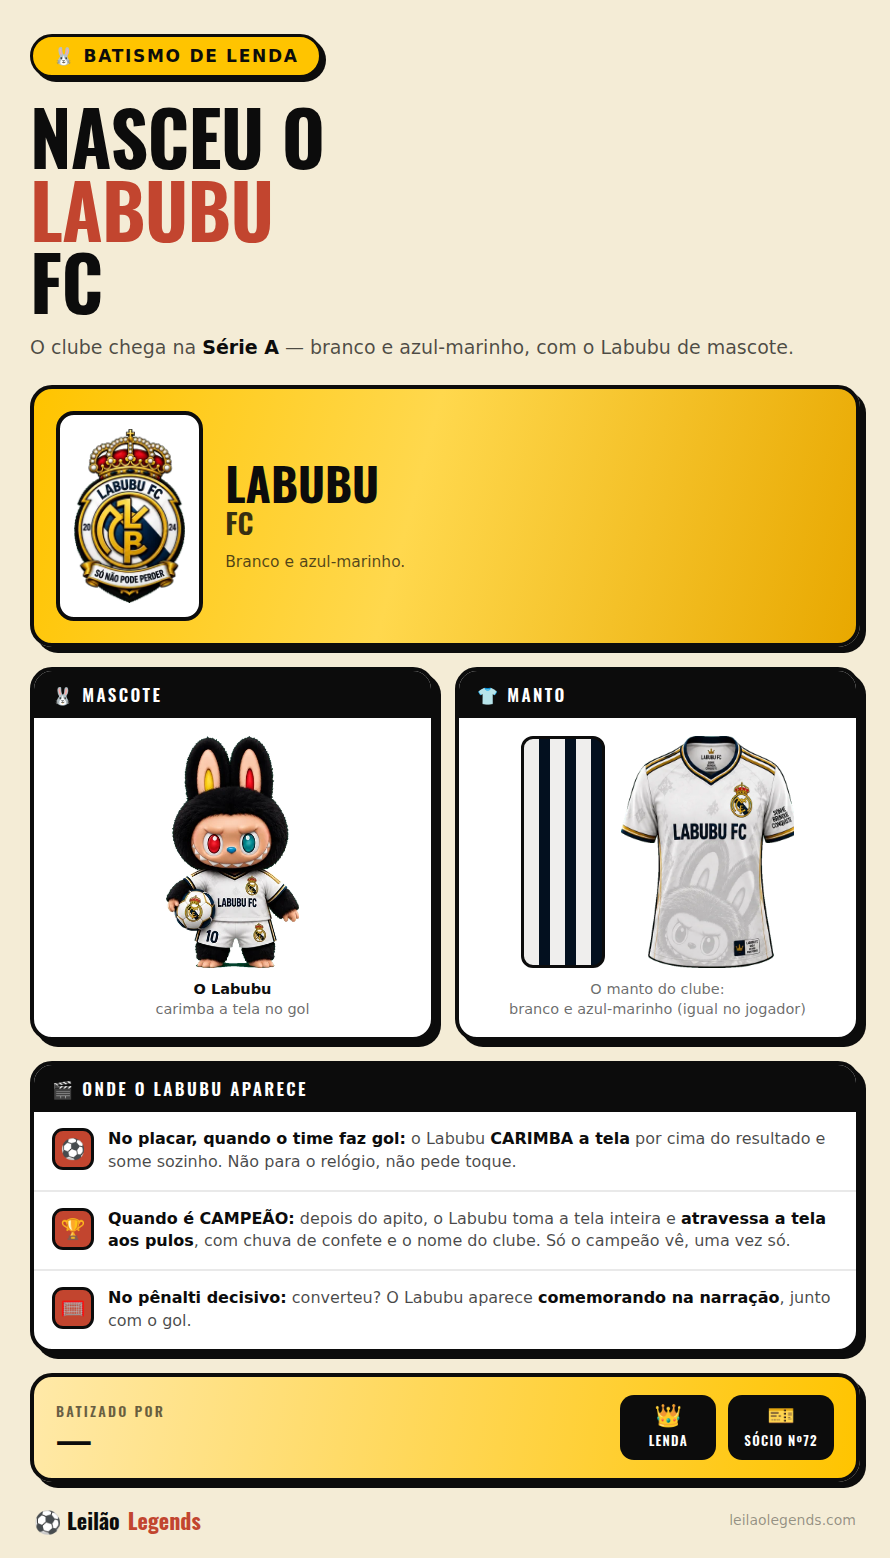
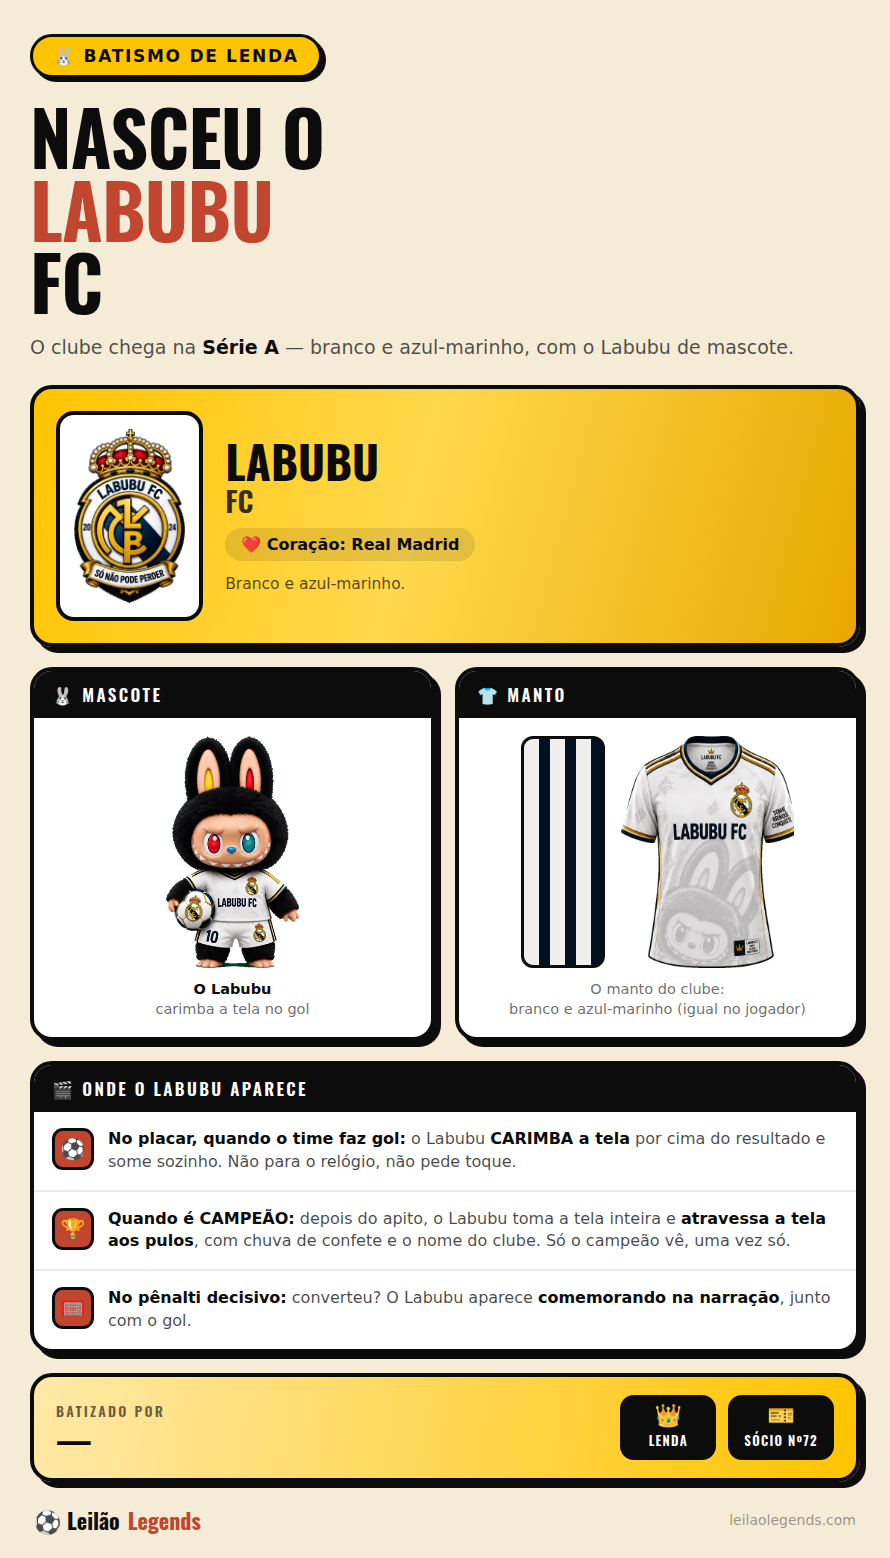
Labubu FC: time de coração Real Madrid (post, data.ts e esc_socios)
Claude-Session: https://claude.ai/code/session_018Ap1zPCMVL9XeZJN3u93ZA

Changed region(s): [[0.2427, 0.2773, 0.5461, 0.4005]]

diff --git a/src/escalacao/data.ts b/src/escalacao/data.ts
@@ -3825,7 +3825,7 @@ export const DIVISION_TEAMS: Record<'A' | 'B' | 'C' | 'D', CareerTeam[]> = {
   // o batismo de R$69,90 compra. (era a "Série D" até 30/08)
   A: [
     { name: 'Zé Ruela', team: 'Neymarzetti' }, // ⚽ clube BATIZADO (time do Diego, dono do jogo — ex-Paixandu)
-    { name: 'Labubu', team: 'Labubu FC' }, // 🐰⚪ clube BATIZADO por apoiador (caelborba — Labubu FC; escudo coroado com o monograma e o pelo preto atrás, mascote O Labubu de uniforme branco nº 10; branco #EFEEED + marinho #03101F MEDIDOS na camisa; ouro + sócio nº72, SEM nº de fundador pela regra de 14/10). Assento que era do Só Deus Sabe FC, que DESCEU pra Série C por decisão do Diego pra abrir esta vaga. ⚠ SEM OLD_NAME: o Só Deus Sabe não foi renomeado, só mudou de divisão. ⚠ Memória do repo: no POST não se diz de quem era o assento (regra 05/09).
+    { name: 'Labubu', team: 'Labubu FC' }, // 🐰⚪ clube BATIZADO por apoiador (caelborba — Labubu FC; coração Real Madrid; escudo coroado com o monograma e o pelo preto atrás, mascote O Labubu de uniforme branco nº 10; branco #EFEEED + marinho #03101F MEDIDOS na camisa; ouro + sócio nº72, SEM nº de fundador pela regra de 14/10). Assento que era do Só Deus Sabe FC, que DESCEU pra Série C por decisão do Diego pra abrir esta vaga. ⚠ SEM OLD_NAME: o Só Deus Sabe não foi renomeado, só mudou de divisão. ⚠ Memória do repo: no POST não se diz de quem era o assento (regra 05/09).
     { name: 'Heitor', team: 'Arrogantchi FC' }, // 😜🔵⚫ clube BATIZADO por apoiador (heitormonaco98 — Arrogantchi FC; o boleiro de boné e língua de fora com a boneca Mavie no colo; azul-celeste #4EC3FC + preto #141716 MEDIDOS na camisa; era grátis, virou Lenda + fundador nº88 + sócio nº69, 08/10). Assento que era do Bagres 1993, que DESCEU pra Série B por decisão do Diego pra abrir esta vaga. ⚠ SEM OLD_NAME: o Bagres 1993 não foi renomeado, só mudou de divisão. ⚠ Memória do repo: no POST não se diz de quem era o assento (regra 05/09).
     { name: 'Marcão', team: 'São Marcos Antônio FC' }, // 😇🐷 clube BATIZADO por apoiador (marcomak03 — São Marcos Antônio FC; o goleiro de auréola e o porquinho, verde-garrafa + creme; coração Palmeiras; era ⭐ Craque, virou Lenda + fundador nº68 + sócio nº49, 13/09). Assento que era do Marolados FC, que DESCEU pra Série B por decisão do Diego pra abrir esta vaga. ⚠ SEM OLD_NAME: o Marolados não foi renomeado, só mudou de divisão (o OLD_NAME dele continua sendo o Real Madruga). ⚠ Isto aqui é memória do repo — no POST não se diz de quem era o assento (regra 05/09).
     { name: 'Seu Bruno da Roça', team: 'Leite de Verdade FC' }, // 🐮 clube BATIZADO por apoiador (brunolopesmiranda15 — Leite de Verdade FC; vaca malhada de chapéu de palha e óculos escuros, creme e preto com dourado; Lenda + fundador nº67 + sócio nº45, 10/09). Assento que era do Barcenite FC, que DESCEU pra Série B por decisão do Diego pra abrir esta vaga. ⚠ SEM OLD_NAME: o Barcenite não foi renomeado, só mudou de divisão (o OLD_NAME dele continua sendo o Milanesa FC).

diff --git a/docs/pendencias.md b/docs/pendencias.md
@@ -3,7 +3,7 @@ caelborba@gmail.com (conta existe). Série A no assento do Só Deus Sabe FC, que
 OLD_NAME). Escudo 230×360/28 KB, mascote O Labubu 252×440/31 KB, manto branco #EFEEED + marinho #03101F medidos, camisa na Loja.
 Banco: esc_socios nº72 (origem batismo, até 2099), esc_nomes_batismo 'labubu' (+FC/EC), esc_compras_batismo 'lenda', user_colors
 ouro manual. **Sem número de fundador** (regra nova). Post: `scripts/posts/labubu-post.png`. ⏳ Falta: nome do dono pro rodapé do
-post ("Batizado por —") e o time de coração, se o Diego souber.
+post ("Batizado por —") (coração Real Madrid, confirmado pelo Diego e gravado no banco).
 
 ## 💳 Planos novos (14/10) — ✅ NO AR
 ✅ Vitrine pública: Craque 29,90 · Lenda 49,90 · Batismo 79,90 · 🖋 Fundador 99,90 (ex-Batismo Lenda), todos "PAGAMENTO ÚNICO", Sócio
